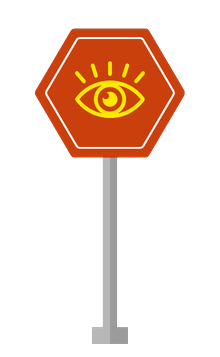
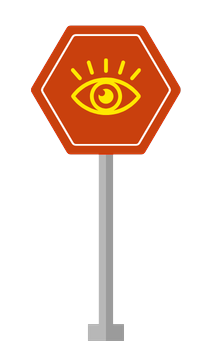
Alinear los postes del servicio completo y dar aire entre el título y el texto del libro.

Changed region(s): [[0.1415, 0.0587, 0.8491, 0.4692], [0.3396, 0.176, 0.6792, 0.3519], [0.3962, 0.9091, 0.5943, 1.0]]

diff --git a/frontend/css/styles.css b/frontend/css/styles.css
@@ -414,7 +414,7 @@ a.btn:active { text-decoration: none; }
   display: flex;
   flex-direction: column;
   justify-content: flex-start;
-  gap: 1.1rem;
+  gap: .75rem;
   align-items: flex-start;
   color: var(--tinta);
 }
@@ -443,6 +443,7 @@ a.btn:active { text-decoration: none; }
 .pagina-info__desc {
   max-width: none;
   width: 100%;
+  margin-top: 1.35rem;
   font-size: 1.08rem;
   line-height: 1.55;
   background: color-mix(in srgb, var(--blanco) 78%, var(--papel));
@@ -530,6 +531,9 @@ a.btn:active { text-decoration: none; }
   width: 100%;
   height: auto;
 }
+.popup--lectura .popup__img {
+  transform: translateX(11%);
+}
 
 /* la pieza se levanta desde el pliegue al pasar de página */
 .pop-layer {
@@ -602,11 +606,12 @@ a.btn:active { text-decoration: none; }
   gap: 2rem;
   position: relative;
 }
-/* calzada que conecta los postes de las señaléticas */
+/* calzada alineada al pie de los postes */
 .ruta__linea::before {
   content: "";
   position: absolute;
-  top: 12.1rem; left: 2.4rem; right: 2.4rem;
+  top: calc(1rem + 196px - 3px);
+  left: 2.4rem; right: 2.4rem;
   border-top: 3px dashed var(--tinta);
   opacity: .35;
 }
@@ -622,10 +627,13 @@ a.btn:active { text-decoration: none; }
   height: 196px;
   position: relative;
   z-index: 1;
+  display: flex;
+  align-items: flex-end;
+  justify-content: center;
 }
 .ruta__senal img {
   display: block;
-  width: 100%;
+  width: auto;
   height: 100%;
   object-fit: contain;
   object-position: bottom center;

diff --git a/frontend/index.html b/frontend/index.html
@@ -184,7 +184,7 @@
   <ol class="ruta__linea">
     <li class="ruta__parada">
       <div class="ruta__senal" aria-hidden="true">
-        <img src="img/ruta/01-evaluacion.png" alt="" width="220" height="357">
+        <img src="img/ruta/01-evaluacion.png" alt="" width="212" height="341">
       </div>
       <p class="ruta__km">KM 01</p>
       <h3>Evaluación</h3>
@@ -192,7 +192,7 @@
     </li>
     <li class="ruta__parada">
       <div class="ruta__senal" aria-hidden="true">
-        <img src="img/ruta/02-propuesta.png" alt="" width="220" height="357">
+        <img src="img/ruta/02-propuesta.png" alt="" width="212" height="341">
       </div>
       <p class="ruta__km">KM 02</p>
       <h3>Propuesta editorial</h3>
@@ -200,7 +200,7 @@
     </li>
     <li class="ruta__parada">
       <div class="ruta__senal" aria-hidden="true">
-        <img src="img/ruta/03-edicion.png" alt="" width="220" height="357">
+        <img src="img/ruta/03-edicion.png" alt="" width="212" height="341">
       </div>
       <p class="ruta__km">KM 03</p>
       <h3>Edición y producción</h3>
@@ -208,7 +208,7 @@
     </li>
     <li class="ruta__parada">
       <div class="ruta__senal" aria-hidden="true">
-        <img src="img/ruta/04-lanzamiento.png" alt="" width="220" height="357">
+        <img src="img/ruta/04-lanzamiento.png" alt="" width="212" height="341">
       </div>
       <p class="ruta__km">KM 04</p>
       <h3>Impresión y lanzamiento</h3>

diff --git a/frontend/js/main.js b/frontend/js/main.js
@@ -99,6 +99,7 @@
       titulo: 'Informe de lectura',
       desc: 'Una lectura profesional de tu manuscrito en la que evaluamos distintos aspectos. Estructura, ritmo, coherencia narrativa, potencial editorial. ¡Te devolvemos todo en un informe!',
       img: 'img/servicios/01-informe-de-lectura.png',
+      mod: 'popup--lectura',
       cta: 'Cotizar este servicio'
     },
     {
@@ -154,7 +155,7 @@
       infoTitulo.textContent = s.titulo;
       infoDesc.textContent = s.desc;
       infoCta.textContent = s.cta;
-      escenario.innerHTML = `<div class="popup"><div class="pop-layer"><img class="popup__img" src="${s.img}" alt="${s.titulo}"></div></div>`;
+      escenario.innerHTML = `<div class="popup${s.mod ? ` ${s.mod}` : ''}"><div class="pop-layer"><img class="popup__img" src="${s.img}" alt="${s.titulo}"></div></div>`;
       folio.textContent = `pág. ${i + 1} de ${SERVICIOS.length}`;
       btnPrev.disabled = i === 0;
       btnNext.disabled = i === SERVICIOS.length - 1;
